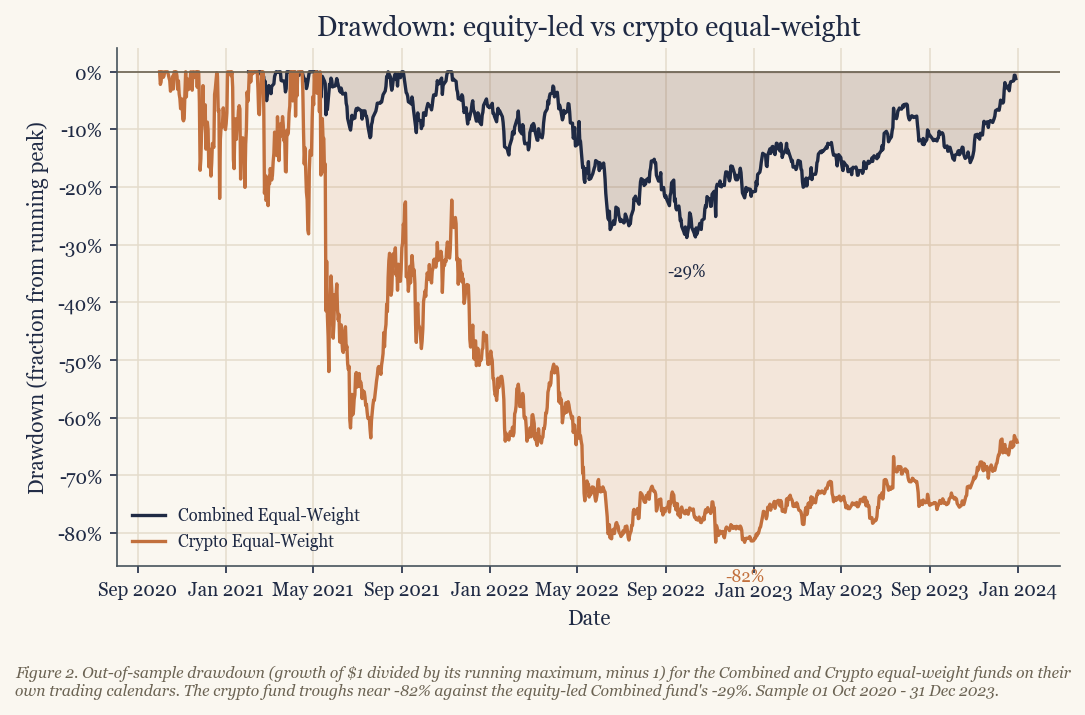
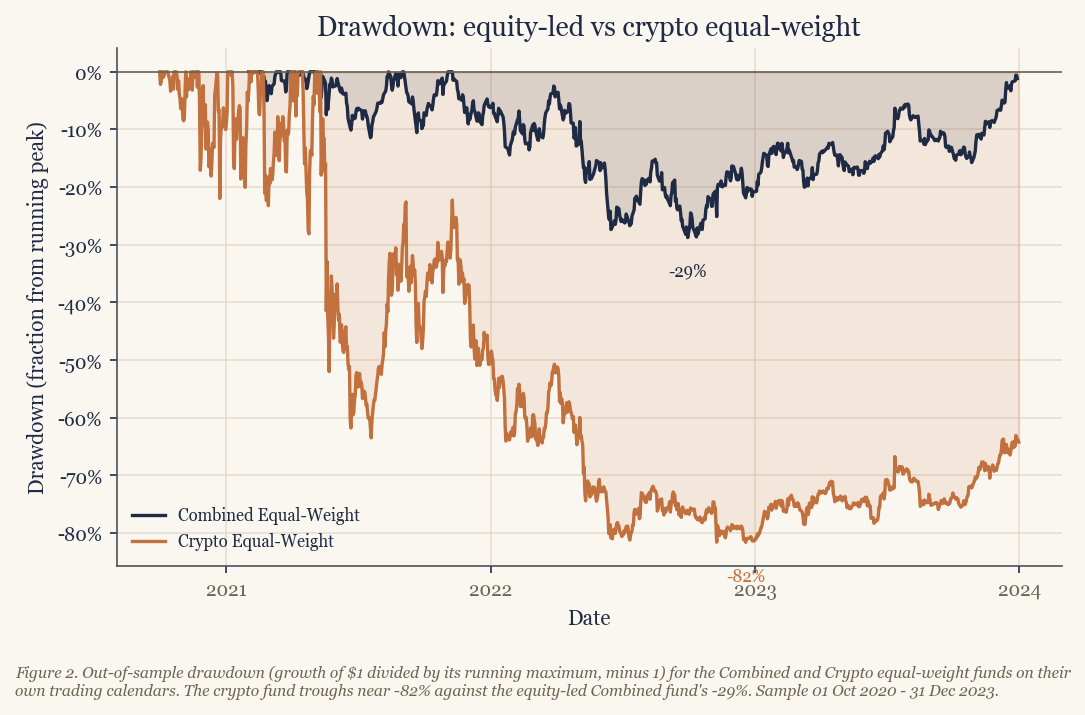
Polish: clean date axes, declutter scatter, fill deploy links

diff --git a/streamlit_app.py b/streamlit_app.py
@@ -118,8 +118,8 @@ st.markdown(
     "transparent, monthly-rebalanced, long-only rule (equity, crypto, or a combined "
     "mix), built and frozen offline; this app only *reads* the results.")
 st.markdown(
-    ":link: **Links:** live app - `PLACEHOLDER: https://<your-app>.streamlit.app`  |  "
-    "code - `PLACEHOLDER: https://github.com/<you>/<repo>`  *(filled at deploy)*")
+    ":link: **Links:** live app - https://z5483577-old-money.streamlit.app  |  "
+    "code - https://github.com/cchan0130/z5483577-old-money")
 st.divider()
 
 tab1, tab2, tab3, tab4 = st.tabs(
@@ -144,15 +144,22 @@ with tab1:
 
     col_a, col_b = st.columns(2)
     with col_a:
-        st.markdown("**Risk vs return** (annualised, coloured by family)")
+        st.markdown("**Risk vs return** (annualised, coloured by family; "
+                    "base methods labelled, sentiment/attention tilts shown unlabelled)")
+        base_methods = {"equal_weight", "min_variance", "risk_parity", "max_sharpe"}
         fig, ax = plt.subplots(figsize=(5.4, 4.2))
         for fam in chosen:
             sub = view[view["family"] == fam]
             ax.scatter(sub["ann_vol"], sub["ann_return"], s=42,
                        color=FAMILY_COLOR[fam], label=fam, alpha=0.85, edgecolor="none")
+        # Label only the four base methods per family - the +sentiment/+attention
+        # variants sit on top of their base in the dense equity cluster.
         for _, row in view.iterrows():
-            ax.annotate(row["method"].replace("+", "+\n"), (row["ann_vol"], row["ann_return"]),
-                        fontsize=5.5, xytext=(3, 3), textcoords="offset points",
+            if row["method"] not in base_methods:
+                continue
+            ax.annotate(row["method"].replace("_", " ").title(),
+                        (row["ann_vol"], row["ann_return"]),
+                        fontsize=7, xytext=(4, 4), textcoords="offset points",
                         color=plotstyle.INK_MUTED)
         ax.set_xlabel("Annualised volatility")
         ax.set_ylabel("Annualised return")
@@ -173,6 +180,7 @@ with tab1:
         ax.axhline(1.0, color=plotstyle.INK_MUTED, lw=0.8, ls=":")
         ax.set_xlabel("Date")
         ax.set_ylabel("Value of $1 (linear)")
+        plotstyle.format_date_axis(ax)
         ax.legend(fontsize=7, title=fam_overlay.capitalize())
         st.pyplot(fig, width="stretch")
         plt.close(fig)
@@ -205,6 +213,7 @@ with tab2:
         ax.plot(g.index, g.values, color=plotstyle.INK, linewidth=1.6)
         ax.axhline(1.0, color=plotstyle.INK_MUTED, lw=0.8, ls=":")
         ax.set_ylabel("Value of $1")
+        plotstyle.format_date_axis(ax)
         st.pyplot(fig, width="stretch")
         plt.close(fig)
 
@@ -214,6 +223,7 @@ with tab2:
         ax.plot(dd.index, dd.values, color=plotstyle.BURGUNDY, linewidth=1.3)
         ax.fill_between(dd.index, dd.values, 0.0, color=plotstyle.BURGUNDY, alpha=0.12)
         ax.yaxis.set_major_formatter(plt.FuncFormatter(lambda v, _: f"{v:.0%}"))
+        plotstyle.format_date_axis(ax)
         st.pyplot(fig, width="stretch")
         plt.close(fig)
 
@@ -282,6 +292,7 @@ with tab3:
                     label="Your allocation")
             ax.axhline(1.0, color=plotstyle.INK_MUTED, lw=0.8, ls=":")
             ax.set_ylabel("Value of $1")
+            plotstyle.format_date_axis(ax)
             ax.legend(fontsize=8)
             st.pyplot(fig, width="stretch")
             plt.close(fig)
@@ -305,6 +316,7 @@ with tab4:
     ax.axhline(0.0, color=plotstyle.INK_MUTED, lw=0.8, ls=":")
     ax.set_xlabel("Date")
     ax.set_ylabel("Sentiment (rolling mean)")
+    plotstyle.format_date_axis(ax)
     fig.legend(SECTOR_ORDER, loc="center left", bbox_to_anchor=(1.0, 0.5), fontsize=7,
                title="Sector")
     st.pyplot(fig, width="stretch", bbox_inches="tight")

diff --git a/scripts/make_fund_figures.py b/scripts/make_fund_figures.py
@@ -77,7 +77,7 @@ def fig_growth(returns):
     ax.set_title("Growth of $1: Combined funds by weighting method")
     ax.set_xlabel("Date")
     ax.set_ylabel("Value of $1 invested (USD, linear scale)")
-    ax.xaxis.set_major_formatter(mdates.DateFormatter("%b %Y"))
+    plotstyle.format_date_axis(ax)
     ax.legend(title="Method", loc="upper left")
     period = _fmt_period(spans[0])
     plotstyle.caption(
@@ -116,7 +116,7 @@ def fig_drawdown(returns):
     ax.set_xlabel("Date")
     ax.set_ylabel("Drawdown (fraction from running peak)")
     ax.yaxis.set_major_formatter(plt.FuncFormatter(lambda v, _: f"{v:.0%}"))
-    ax.xaxis.set_major_formatter(mdates.DateFormatter("%b %Y"))
+    plotstyle.format_date_axis(ax)
     ax.legend(loc="lower left")
     period = _fmt_period(min(spans, key=lambda s: s.min()))
     plotstyle.caption(
@@ -227,7 +227,7 @@ def fig_sentiment(roll_window=21):
     ax.set_title("Sector news-sentiment index (VADER compound, equal-weight)")
     ax.set_xlabel("Date")
     ax.set_ylabel(f"Sentiment ({roll_window}-day rolling mean of daily index)")
-    ax.xaxis.set_major_formatter(mdates.DateFormatter("%b %Y"))
+    plotstyle.format_date_axis(ax)
     handles = [plt.Line2D([0], [0], color=plotstyle.SECTOR_COLORS[s], lw=1.6)
                for s in SECTOR_ORDER]
     fig.legend(handles, SECTOR_ORDER, title="Sector", loc="center left",

diff --git a/src/plotstyle.py b/src/plotstyle.py
@@ -104,3 +104,20 @@ def caption(fig, text: str) -> None:
     """
     fig.text(0.01, -0.02, text, ha="left", va="top", fontsize=7.5,
              style="italic", color=INK_MUTED, wrap=True)
+
+
+def format_date_axis(ax) -> None:
+    """Year-only, horizontal date ticks in the Old Money style.
+
+    Sets the x-axis major locator to whole years and the formatter to a 4-digit
+    year, keeps the labels horizontal, and pulls the muted tick colour and size
+    from the shared style constants (the same ``INK_MUTED`` / restrained sizing
+    ``caption`` uses). Call on any time-series axis so date ticks read the same
+    across every chart. The axis must be plotted against real datetimes.
+    """
+    import matplotlib.dates as mdates
+
+    ax.xaxis.set_major_locator(mdates.YearLocator())
+    ax.xaxis.set_major_formatter(mdates.DateFormatter("%Y"))
+    ax.tick_params(axis="x", labelrotation=0, labelcolor=INK_MUTED,
+                   labelsize=mpl.rcParams["xtick.labelsize"])

diff --git a/ai/prompt_log_template.md b/ai/prompt_log_template.md
@@ -590,3 +590,20 @@ for me.]
   stability.
 
 ---
+
+# Prompt log 8 - <task name>
+
+## What I wanted
+<the goal in one or two sentences>
+
+## Prompt(s)
+<the prompt(s) you gave the assistant>
+
+## What the assistant produced
+<a summary, or the code/text it returned>
+
+## What was wrong or risky
+<bugs, look-ahead, wrong assumptions, hallucinated APIs - what you found>
+
+## What I changed and why
+<your correction, in your own words>
